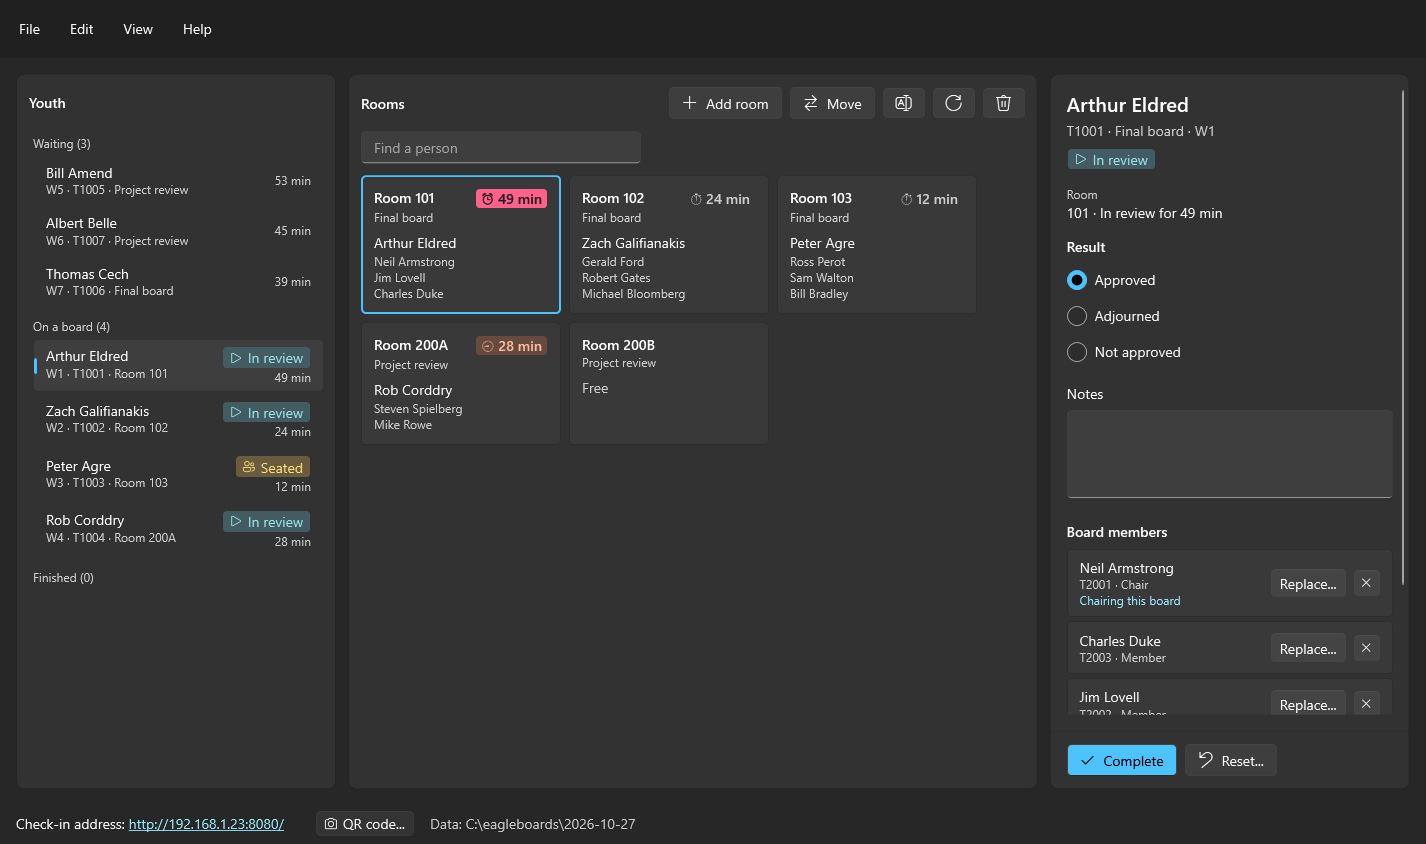
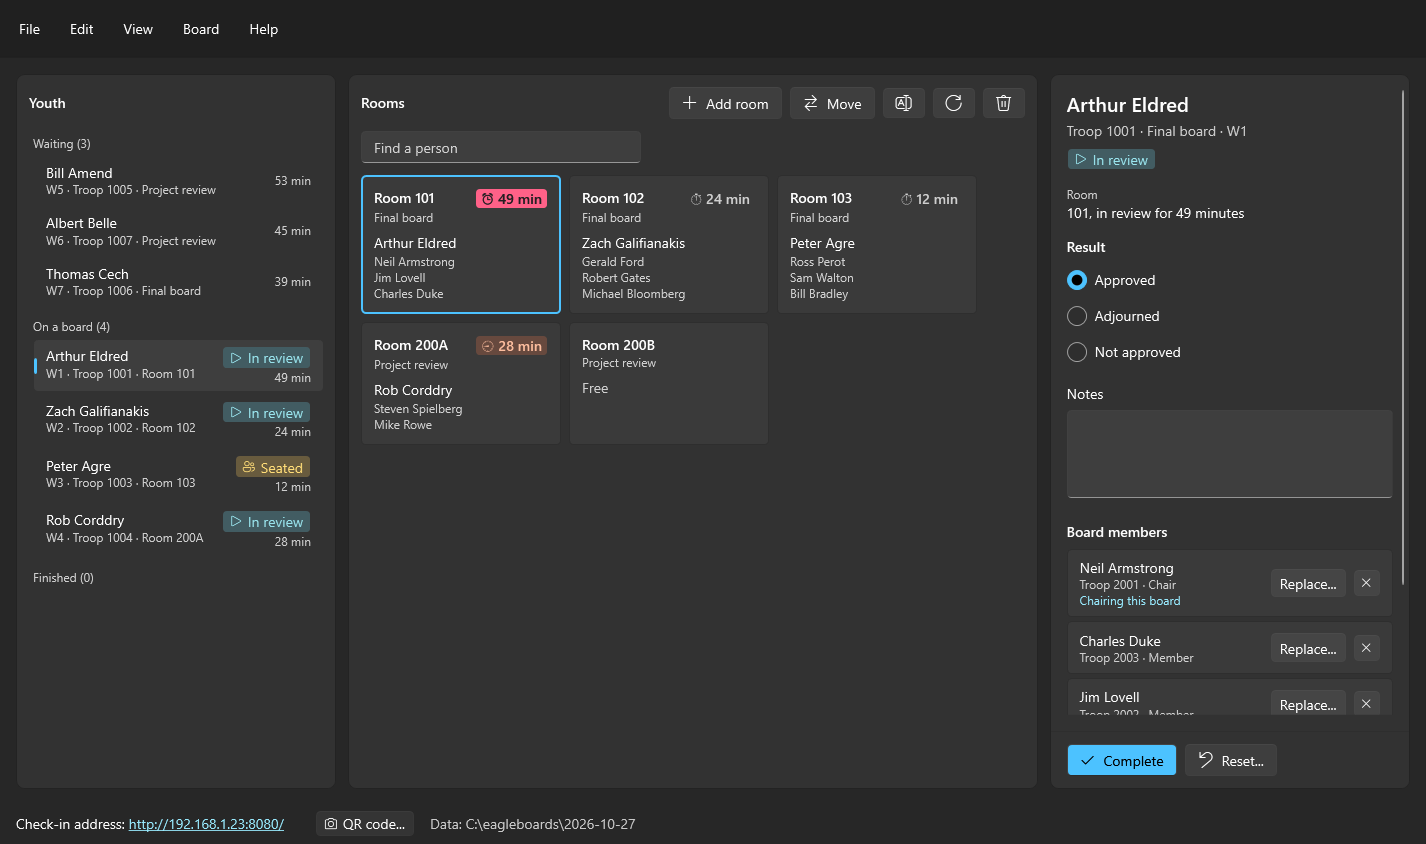
New pictures of the app for 2026.10.25: the Board menu, units spelled out
event.png, event-dark.png, seat-board.gif and complete-board.gif show the
menu bar with Board, "Troop 1001" where they said "T1001", and "in review for
49 minutes". social-preview.png is the same window. Rendered by
tests/EagleBoards.UiSnapshots (--site, --demo). The README's line about the
menu bar names Board.

diff --git a/README.md b/README.md
@@ -10,7 +10,7 @@ before anyone sits down, and sees every room's time at a glance.
   <img src="docs/images/event.png" alt="Screenshot of the Event page during an event: one room overdue, another running long, and a board ready to complete in the details pane.">
 </picture>
 
-In the picture, the menu bar has File, Edit, View and Help. The Youth list
+In the picture, the menu bar has File, Edit, View, Board and Help. The Youth list
 has three youth waiting and four on a board. In Rooms, under Find a person,
 Arthur Eldred's final board in room 101 is overdue at 49 minutes (an alarm
 clock on a pink-red fill), and Rob Corddry's project review in 200A is running
